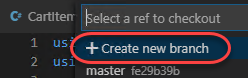
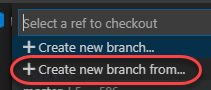
Updated "Create new branch" image and description (#263)
* Updated "Create new branch" image and description

* Updated image with highlight around menu item

diff --git a/labs/azuredevops/git/readme.md b/labs/azuredevops/git/readme.md
@@ -271,7 +271,7 @@ Committing changes to a branch will not affect other branches and you can share 
 
     ![](images/034.png)
 
-1. Select **Create new branch**.
+1. Select **Create new branch from...**.
 
     ![](images/035.png)
 
